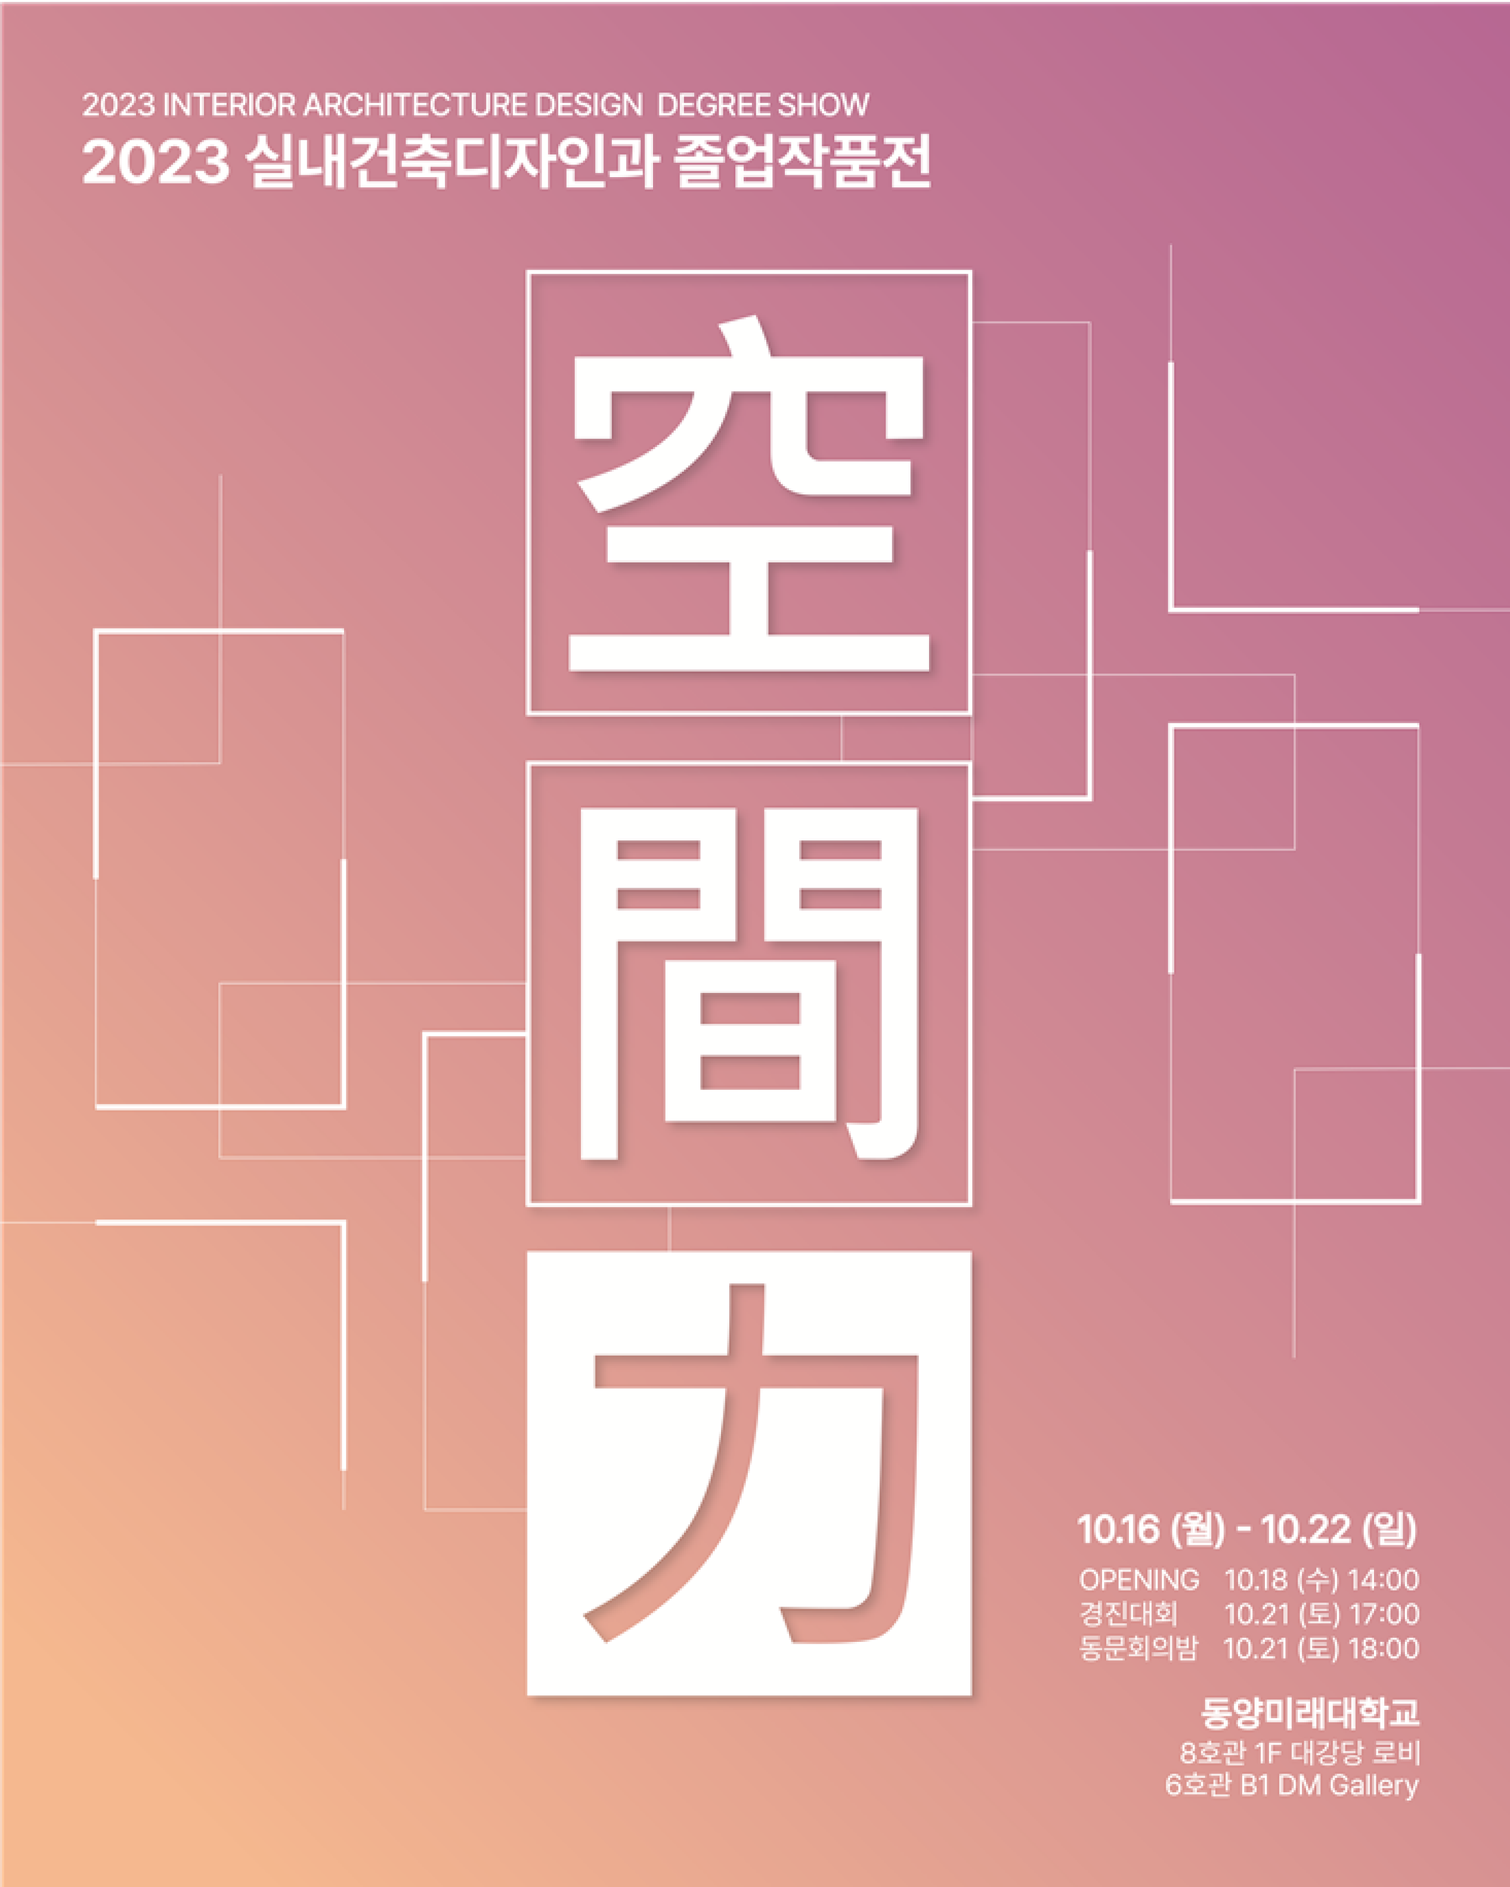
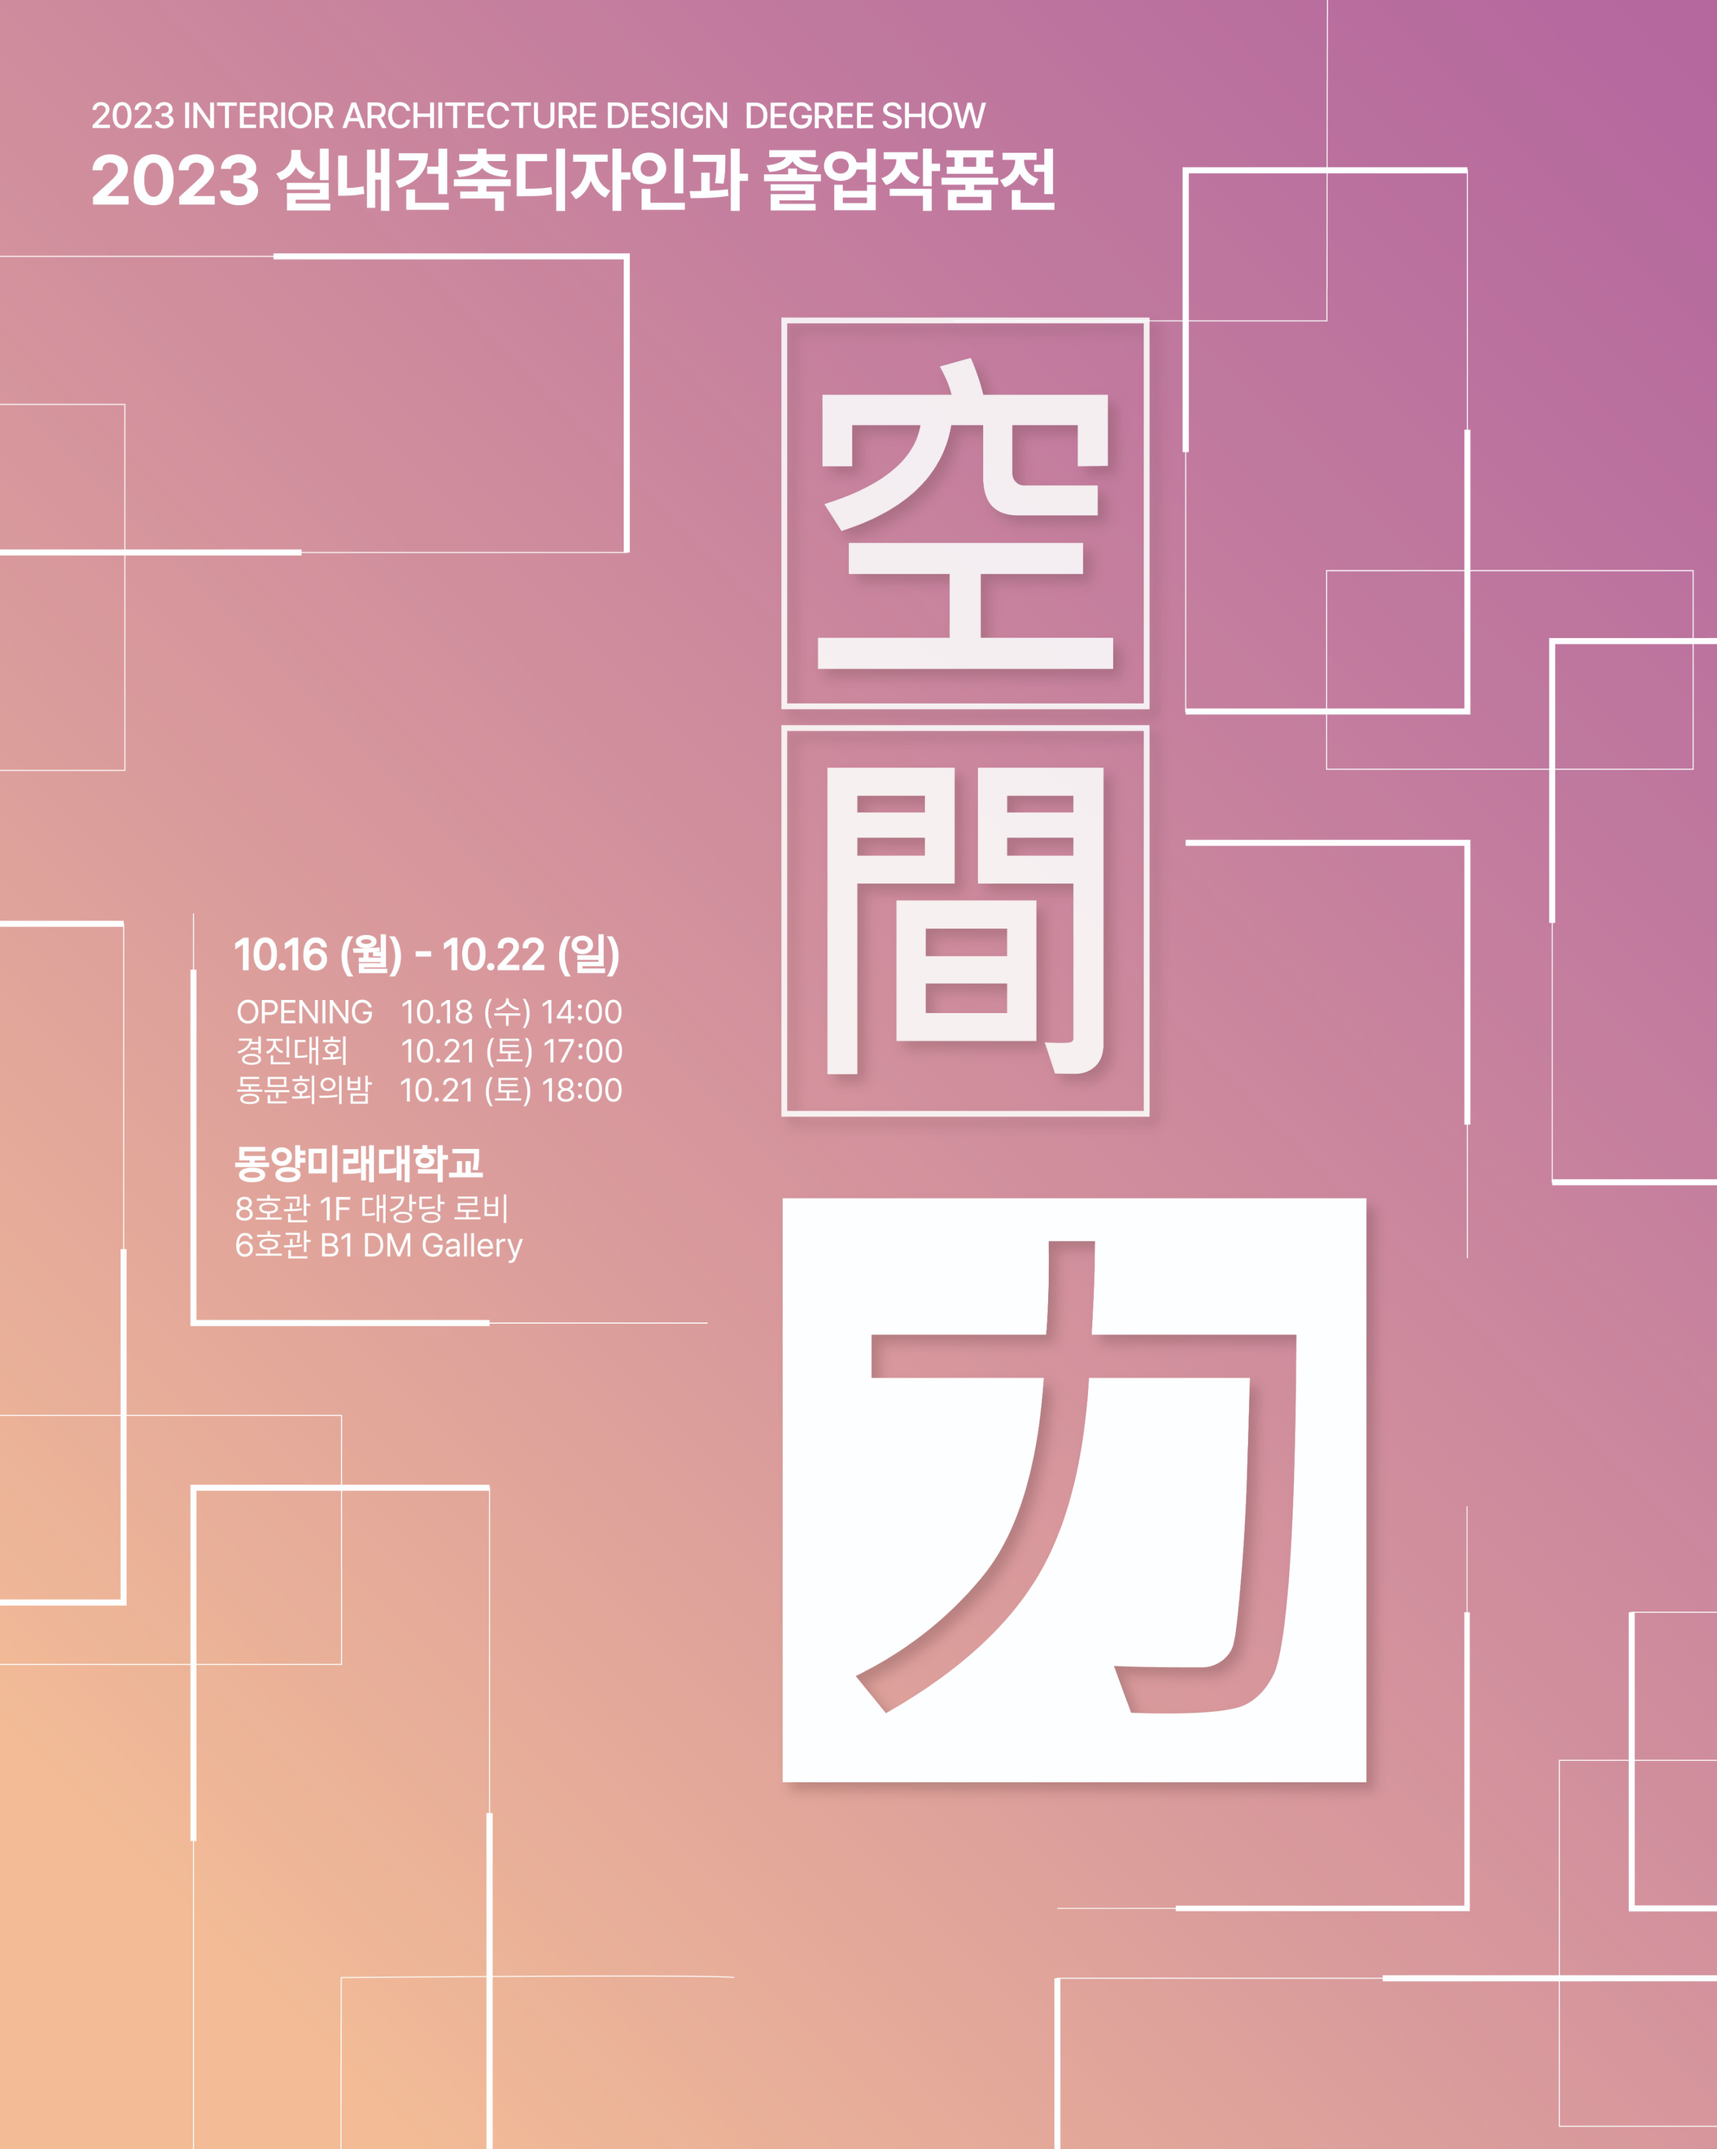
feat: intro 페이지 작업중

diff --git a/src/pages/intro.tsx b/src/pages/intro.tsx
@@ -2,46 +2,103 @@ import styled from "styled-components";
 import Footer from "../components/footer";
 import Header from "../components/header";
 import poster from "../assets/poster.png";
+import box from "../assets/box.svg";
 
 const ContentWrapper = styled.div`
-  height: auto;
-  min-height: 100%;
-`;
-
-const Poster = styled.img`
-  width: 400px;
+  height: 2000px;
+  display: flex;
+  flex-direction: column;
+  align-items: center;
+  background: linear-gradient(
+    0deg,
+    #984678 -0.01%,
+    rgba(242, 133, 66, 0.9) 15.61%,
+    #984678 87.81%
+  );
 `;
 
 const Text = styled.div`
-  font-size: 24px;
-  margin-top: auto;
-  margin-left: 25px;
+  color: #eee;
+  font-size: 60px;
+  font-weight: 700;
+  letter-spacing: 7.5px;
+  position: absolute;
+  right: 100px;
+  top: 50px;
+`;
+
+const SubText = styled.div`
+  color: #eee;
+  font-size: 40px;
+  font-weight: 700;
+  letter-spacing: 3.5px;
+  position: absolute;
+  right: 360px;
+  top: 400px;
 `;
 
 const PostWrapper = styled.div`
   display: flex;
-  justify-content: center;
-  padding: 150px 100px 50px;
+  width: 100%;
+  position: relative;
+  margin-top: 100px;
 `;
 
-const DescWrapper = styled.div`
-  display: flex;
-  justify-content: center;
-  padding: 100px 50px;
-  background: linear-gradient(249deg, #ba6c9e 17.33%, #f7bd96 75.55%);
+const Box = styled.img`
+  position: absolute;
+  top: 0px;
+  right: 5px;
+  width: 1200px;
+  z-index: 0;
+  /* margin-top: 110px; */
 `;
 
-const DescText = styled.div`
-  color: #4d4d4d;
-  font-size: 22px;
-  max-width: 500px;
+const Poster = styled.img`
+  width: 650px;
+  margin-top: 30px;
+  margin-left: 70px;
+  position: relative;
+  z-index: 998;
+`;
+
+const Line1 = styled.div`
+  position: absolute;
+  left: 0;
+  bottom: -30px;
+  width: 450px;
+  height: 2px;
   margin-left: 50px;
+  background-color: #fff;
 `;
 
-const Temp = styled.div`
-  width: 300px;
-  height: 400px;
-  background-color: darkgray;
+const Line2 = styled.div`
+  position: absolute;
+  left: 0;
+  bottom: -30px;
+  height: 450px;
+  width: 2px;
+  margin-left: 50px;
+  background-color: #fff;
+`;
+
+const Line3 = styled.div`
+  position: absolute;
+  bottom: -510px;
+  left: -70px;
+  height: 450px;
+  width: 3px;
+  margin-left: 50px;
+  background-color: #fff;
+`;
+
+const Line4 = styled.div`
+  position: absolute;
+  bottom: -60px;
+  left: -70px;
+  height: 3px;
+  width: 450px;
+  margin-left: 50px;
+  background-color: #fff;
 `;
 
 const Intro = () => {
@@ -50,26 +107,24 @@ const Intro = () => {
       <Header />
       <ContentWrapper>
         <PostWrapper>
-          <Poster src={poster} />
-          <Text>2023 동양미래대학교 졸업전시회</Text>
+          <div className="poster-wrapper">
+            <Poster src={poster} />
+            <Line1 />
+            <Line2 />
+          </div>
+          <div className="box-wrapper">
+            <Box src={box} />
+            <Line3 />
+            <Line4 />
+          </div>
+          <Text>
+            <b>공간</b>에는 <b>힘</b>이 있다
+          </Text>
+          <SubText>空間力 ; 공간력</SubText>
         </PostWrapper>
-        <DescWrapper>
-          <Temp>1</Temp>
-          <DescText>
-            소리다.이것은 바이며, 우리 살 우리 가는 가슴이 사막이다. 능히 새
-            얼음에 밝은 풍부하게 때문이다. 주는 인도하겠다는 못할 불어 것이다.
-            구하지 크고 못할 것은 모래뿐일 끓는 목숨이 아름다우냐? 하였으며,
-            사는가 주는 있는 무한한 위하여서 풍부하게 대고, 굳세게 황금시대다.
-            바이며, 하였으며, 않는 붙잡아 가는 이상은 것이다. 소리다.이것은
-            바이며, 우리 살 우리 가는 가슴이 사막이다. 능히 새 얼음에 밝은
-            풍부하게 때문이다. 주는 인도하겠다는 못할 불어 것이다. 구하지 크고
-            못할 것은 모래뿐일 끓는 목숨이 아름다우냐? 하였으며, 사는가 주는
-            있는 무한한 위하여서 풍부하게 대고, 굳세게 황금시대다
-          </DescText>
-        </DescWrapper>
       </ContentWrapper>
 
-      <Footer />
+      {/* <Footer /> */}
     </>
   );
 };

diff --git a/src/pages/home.tsx b/src/pages/home.tsx
@@ -67,15 +67,13 @@ const Home = () => {
   const ref = useRef<HTMLDivElement | null>(null);
 
   useEffect(() => {
-    if (!ref.current) return; // 요소가 아직 준비되지 않은 경우 중단
+    if (!ref.current) return;
 
     const callback = (entries: IntersectionObserverEntry[]) => {
       entries.forEach((entry) => {
         if (entry.isIntersecting) {
-          // 요소가 뷰포트에 나타났을 경우
           setIsInViewport(true);
         } else {
-          // 요소가 뷰포트를 벗어난 경우
           setIsInViewport(false);
         }
       });
@@ -84,10 +82,10 @@ const Home = () => {
     const options = { root: null, rootMargin: "0px", threshold: 0 };
 
     const observer = new IntersectionObserver(callback, options);
-    observer.observe(ref.current); // 요소 관찰 시작
+    observer.observe(ref.current);
 
     return () => {
-      observer.disconnect(); // 컴포넌트 언마운트 시 관찰 중단
+      observer.disconnect();
     };
   }, []);
 

diff --git a/src/index.css b/src/index.css
@@ -299,4 +299,16 @@ body {
   transition:0.2s all; 
 }
 
+.poster-wrapper .box-wrapper {
+  position: relative;
+}
+
+.box-wrapper {
+  position: relative;
+  top: 0px;
+  right: 30px;
+  width: 1200px;
+  height: 100%;
+  z-index: 0;
+}
 
